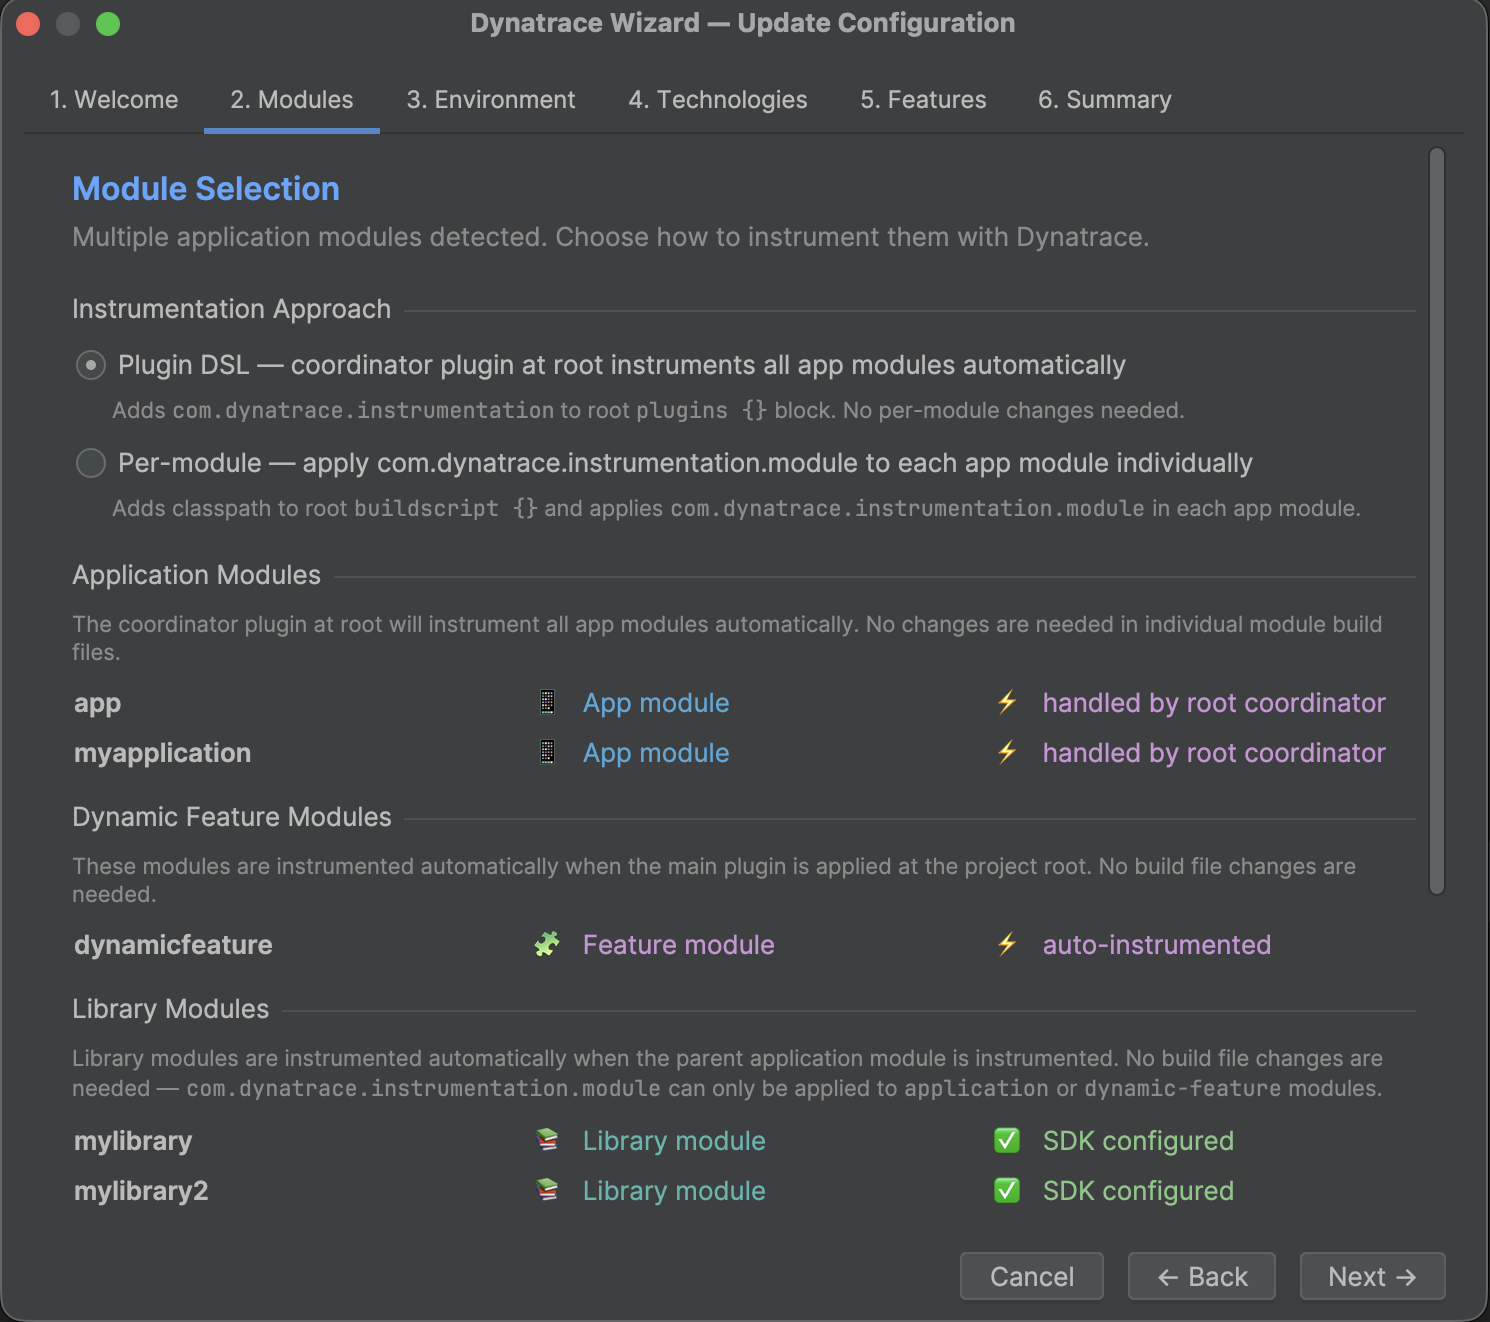
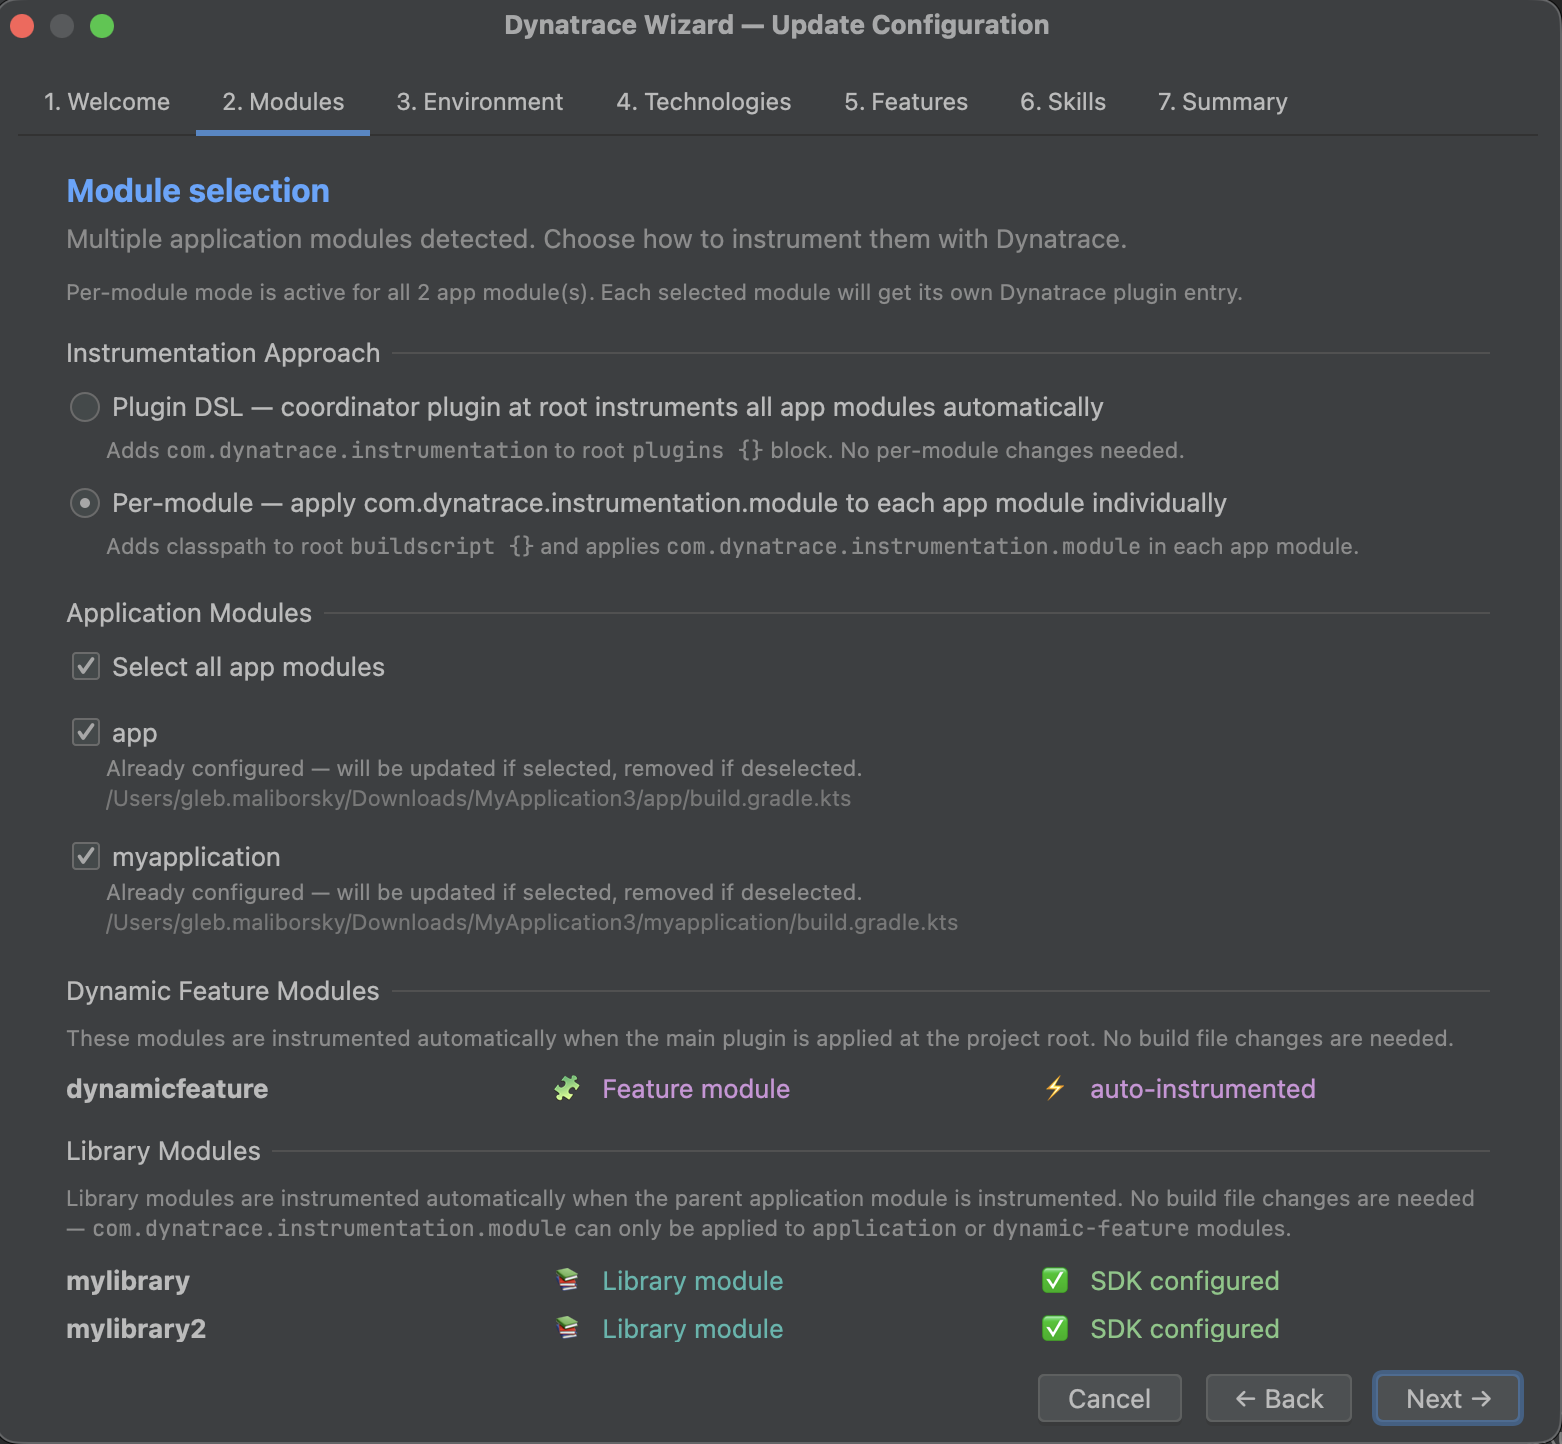
change documentation, improve formatting

diff --git a/src/main/kotlin/com/dynatrace/wizard/wizard/SupportedTechnologiesStep.kt b/src/main/kotlin/com/dynatrace/wizard/wizard/SupportedTechnologiesStep.kt
@@ -10,7 +10,9 @@ import com.intellij.util.ui.JBUI
 import com.intellij.util.ui.UIUtil
 import java.awt.BorderLayout
 import java.awt.Color
-import java.awt.GridLayout
+import java.awt.GridBagConstraints
+import java.awt.GridBagLayout
+import java.awt.Insets
 import javax.swing.BorderFactory
 import javax.swing.JComponent
 import javax.swing.JPanel
@@ -98,9 +100,7 @@ class SupportedTechnologiesStep {
             minVersion = "1.8.0",
             maxVersion = "2.3.99",
             note = "Required for Coroutines and Compose instrumentation",
-            noteWhenInRange = "Kotlin versions in this range should work without issues. " +
-                "Dynatrace typically trails Kotlin by 1–2 minor versions, " +
-                "so expect no problems if you stay in the 1.8–2.3 range."
+            noteWhenInRange = "Tested up to 2.3 — newer versions will probably work, but check Dynatrace release notes before upgrading."
         ),
         TechItem(
             name = "Jetpack Compose",
@@ -370,11 +370,13 @@ class SupportedTechnologiesStep {
         )
         builder.addComponent(
             JBLabel(
-                "<html>Versions detected in your project vs. the Dynatrace-supported range.<br>" +
-                "<b style='color:green'>Green</b> = compatible · " +
-                "<b style='color:#C76B00'>Amber</b> = likely compatible, probably no issues · " +
-                "<b style='color:red'>Red</b> = unsupported version · " +
-                "Grey = not detected in project.</html>"
+                "<html>" +
+                "Versions detected in your project vs. the Dynatrace-supported range.<br>" +
+                "<b style='color:green'>Green</b> = compatible &nbsp;·&nbsp; " +
+                "<b style='color:#C76B00'>Amber</b> = likely compatible &nbsp;·&nbsp; " +
+                "<b style='color:red'>Red</b> = unsupported version &nbsp;·&nbsp; " +
+                "Grey = not in project" +
+                "</html>"
             ).apply {
                 foreground = UIUtil.getContextHelpForeground()
                 border     = JBUI.Borders.emptyBottom(8)
@@ -417,7 +419,7 @@ class SupportedTechnologiesStep {
             ))
             builder.addVerticalGap(4)
             builder.addComponent(DocumentationLinks.createLinkLabel(
-                "Build-specific limitations →", DocumentationLinks.BUILD_SPECIFIC_LIMITATIONS))
+                "Build-specific limitations", DocumentationLinks.BUILD_SPECIFIC_LIMITATIONS))
             builder.addComponent(DocumentationLinks.createLinkLabel(
                 "Compatibility with other monitoring tools", DocumentationLinks.COMPATIBILITY_MONITORING_TOOLS))
         }
@@ -438,16 +440,50 @@ class SupportedTechnologiesStep {
     // ── Grid builder ──────────────────────────────────────────────────────────
 
     private fun techGrid(items: List<TechItem>, content: String): JComponent {
-        val grid = JPanel(GridLayout(0, 4, JBUI.scale(14), JBUI.scale(4)))
-        grid.isOpaque = false
-        grid.border   = JBUI.Borders.emptyLeft(4)
+        val panel = JPanel(GridBagLayout())
+        panel.isOpaque = false
+        panel.border   = JBUI.Borders.emptyLeft(4)
 
-        listOf("Technology", "In Your Project", "Supported", "Status").forEach { h ->
-            grid.add(JBLabel(h).apply {
-                font       = JBUI.Fonts.label().asBold()
-                foreground = UIUtil.getContextHelpForeground()
+        val hGap = JBUI.scale(14)   // horizontal gap between columns
+        val vPad = JBUI.scale(2)    // top inset inside each data cell
+        val rowGap = JBUI.scale(3)  // extra gap before each data row
+
+        var nextRow = 0
+
+        // Adds one 4-column data row to the GridBagLayout panel.
+        fun dataRow(
+            c0: JComponent, c1: JComponent, c2: JComponent, c3: JComponent,
+            topInset: Int = rowGap
+        ) {
+            val r = nextRow++
+            fun gbc(col: Int, wx: Double, rightInset: Int) = GridBagConstraints().apply {
+                gridx   = col; gridy = r
+                weightx = wx;  fill  = GridBagConstraints.HORIZONTAL
+                insets  = Insets(topInset, 0, 0, rightInset)
+                ipady   = vPad
+            }
+            panel.add(c0, gbc(0, 0.38, hGap))
+            panel.add(c1, gbc(1, 0.20, hGap))
+            panel.add(c2, gbc(2, 0.20, hGap))
+            panel.add(c3, gbc(3, 0.22, 0))
+        }
+
+        // Adds a full-width hint/note row (spans all 4 columns).
+        fun hintRow(label: JComponent) {
+            panel.add(label, GridBagConstraints().apply {
+                gridx     = 0;   gridy     = nextRow++
+                gridwidth = 4;   weightx   = 1.0
+                fill      = GridBagConstraints.HORIZONTAL
+                insets    = Insets(0, JBUI.scale(22), vPad, 0)
             })
         }
+
+        // Header row (no top inset)
+        fun hdr(text: String) = JBLabel(text).apply {
+            font       = JBUI.Fonts.label().asBold()
+            foreground = UIUtil.getContextHelpForeground()
+        }
+        dataRow(hdr("Technology"), hdr("Detected"), hdr("Supported"), hdr("Status"), topInset = 0)
 
         items.forEach { item ->
             val result = detectItem(item, content)
@@ -467,7 +503,7 @@ class SupportedTechnologiesStep {
                     "✅", "Compatible (BOM)", WizardColors.success, result.detectedVersion, true
                 )
                 result.inRange && item.noteWhenInRange.isNotBlank() -> Row(
-                    "⚠", "Likely compatible", WizardColors.warning, result.detectedVersion, true
+                    "⚠", "Likely compatible", WizardColors.warning, result.detectedVersion, true
                 )
                 result.inRange -> Row(
                     "✅", "Compatible", WizardColors.success, result.detectedVersion, true
@@ -477,50 +513,53 @@ class SupportedTechnologiesStep {
                 )
             }
 
-            grid.add(JBLabel("$icon  ${item.name}").apply {
-                font = if (isBold) JBUI.Fonts.label().asBold() else JBUI.Fonts.label()
-            })
-            grid.add(JBLabel(detectedText).apply {
-                font = if (isBold) JBUI.Fonts.label().asBold() else JBUI.Fonts.label()
-                foreground = when {
-                    item.type == SupportType.BUILT_IN && result.detectedVersion != null -> UIUtil.getLabelForeground()
-                    result.detectedVersion == null -> UIUtil.getContextHelpForeground()
-                    result.detectedVersion == "BOM" || result.detectedVersion.startsWith("BOM ") -> WizardColors.success
-                    result.inRange && item.noteWhenInRange.isNotBlank() -> WizardColors.warning
-                    result.inRange -> WizardColors.success
-                    else           -> WizardColors.error
+            dataRow(
+                JBLabel("$icon  ${item.name}").apply {
+                    font = if (isBold) JBUI.Fonts.label().asBold() else JBUI.Fonts.label()
+                },
+                JBLabel(detectedText).apply {
+                    font = if (isBold) JBUI.Fonts.label().asBold() else JBUI.Fonts.label()
+                    foreground = when {
+                        item.type == SupportType.BUILT_IN && result.detectedVersion != null -> UIUtil.getLabelForeground()
+                        result.detectedVersion == null -> UIUtil.getContextHelpForeground()
+                        result.detectedVersion == "BOM" || result.detectedVersion.startsWith("BOM ") -> WizardColors.success
+                        result.inRange && item.noteWhenInRange.isNotBlank() -> WizardColors.warning
+                        result.inRange -> WizardColors.success
+                        else           -> WizardColors.error
+                    }
+                },
+                JBLabel(item.versionLabel).apply {
+                    foreground = UIUtil.getContextHelpForeground()
+                },
+                JBLabel(statusText).apply {
+                    foreground = statusColor
                 }
-            })
-            grid.add(JBLabel(item.versionLabel).apply {
-                foreground = UIUtil.getContextHelpForeground()
-            })
-            grid.add(JBLabel(statusText).apply {
-                foreground = statusColor
-            })
+            )
 
-            // Hint row for "likely compatible" (in-range but soft upper bound)
+            // Inline hint for "likely compatible" (amber soft-bound note)
             if (result.inRange && item.noteWhenInRange.isNotBlank() && result.detectedVersion != null) {
-                grid.add(JBLabel("<html><i>${item.noteWhenInRange}</i></html>").apply {
+                hintRow(JBLabel("<html><i>${item.noteWhenInRange}</i></html>").apply {
                     font       = JBUI.Fonts.smallFont()
                     foreground = WizardColors.warning
-                    border     = JBUI.Borders.empty(0, JBUI.scale(24), 2, 0)
                 })
-                repeat(3) { grid.add(JPanel().apply { isOpaque = false }) }
             }
 
-            // Hint row: label in col 0, 3 blank fillers for cols 1–3
+            // Inline hint for out-of-range (error note)
             if (!result.inRange && result.detectedVersion != null && item.type == SupportType.AUTO) {
-                grid.add(JBLabel(
-                    "<html><i>${item.note.ifBlank { "Check Dynatrace release notes for this version." }}</i></html>"
-                ).apply {
+                hintRow(JBLabel("<html><i>${item.note.ifBlank { "Check Dynatrace release notes for this version." }}</i></html>").apply {
                     font       = JBUI.Fonts.smallFont()
                     foreground = WizardColors.error
-                    border     = JBUI.Borders.empty(0, JBUI.scale(24), 2, 0)
                 })
-                repeat(3) { grid.add(JPanel().apply { isOpaque = false }) }
             }
         }
-        return grid
+
+        // Vertical filler — pushes all rows to the top so they stay compact
+        panel.add(JPanel().apply { isOpaque = false }, GridBagConstraints().apply {
+            gridx = 0; gridy = nextRow; gridwidth = 4; weighty = 1.0
+            fill  = GridBagConstraints.VERTICAL
+        })
+
+        return panel
     }
 
     // ── Notice panel ──────────────────────────────────────────────────────────

diff --git a/src/main/kotlin/com/dynatrace/wizard/wizard/SkillsStep.kt b/src/main/kotlin/com/dynatrace/wizard/wizard/SkillsStep.kt
@@ -191,32 +191,39 @@ class SkillsStep(private val project: Project? = null) {
             return
         }
 
+        val client = getSkillClient()
+        val scope  = getSkillInstallScope()
         val config = SkillsExportConfig(
-            skillClient       = getSkillClient(),
-            skillInstallScope = getSkillInstallScope(),
+            skillClient       = client,
+            skillInstallScope = scope,
             skillFilePath     = skillFilePathField.text.trim()
         )
         val result = SkillsExportService(project).detectExistingSkills(info, config)
+
+        // One-line context shown in every state: "Claude Code · Project-level · path/"
+        val context = "<span style='color:gray'>${client.label} &middot; ${scope.label}" +
+                      " &middot; <code>${result.directory}/</code></span>"
 
         when {
             result.isFullInstall -> {
                 detectionStatusLabel.text =
                     "<html><b>${result.foundFiles.size} / ${result.totalFiles} files already installed</b>" +
-                    " &nbsp;<span style='color:gray'>${result.foundFiles.joinToString(" \u00b7 ")}</span></html>"
+                    " &nbsp; $context<br>" +
+                    "<span style='color:gray'>${result.foundFiles.joinToString(" \u00b7 ")}</span></html>"
                 detectionStatusLabel.foreground = WizardColors.success
             }
             result.isPartialInstall -> {
                 val missing = SkillsExportService.ALL_SKILL_FILES - result.foundFiles.toSet()
                 detectionStatusLabel.text =
-                    "<html><b>${result.foundFiles.size} / ${result.totalFiles} files found</b> (partial install)<br>" +
+                    "<html><b>${result.foundFiles.size} / ${result.totalFiles} files found</b>" +
+                    " (partial install) &nbsp; $context<br>" +
                     "<span style='color:gray'>Found: ${result.foundFiles.joinToString(", ")}</span><br>" +
                     "<span style='color:gray'>Missing: ${missing.joinToString(", ")}</span></html>"
                 detectionStatusLabel.foreground = WizardColors.warning
             }
             else -> {
                 detectionStatusLabel.text =
-                    "<html><span style='color:gray'>No existing skill files found" +
-                    " at ${result.directory}/</span></html>"
+                    "<html><span style='color:gray'>No existing skill files found &nbsp; $context</span></html>"
                 detectionStatusLabel.foreground = UIUtil.getContextHelpForeground()
             }
         }

diff --git a/src/main/kotlin/com/dynatrace/wizard/wizard/ModuleSelectionStep.kt b/src/main/kotlin/com/dynatrace/wizard/wizard/ModuleSelectionStep.kt
@@ -247,10 +247,13 @@ class ModuleSelectionStep {
                 }
             )
 
-            // Always build checkboxes — regardless of which radio is selected initially —
-            // so switching approach at runtime always has a populated checkbox list.
+            // Pre-check modules based on their current state:
+            //  - Re-run (any module already configured): only check the already-instrumented ones.
+            //  - Fresh setup (nothing configured yet): check all as a convenience default.
+            val anyAlreadyConfigured = info.appModules.any { it.hasDynatrace }
             info.appModules.forEach { m ->
-                val checkBox = JBCheckBox(m.name, true)
+                val initiallyChecked = if (anyAlreadyConfigured) m.hasDynatrace else true
+                val checkBox = JBCheckBox(m.name, initiallyChecked)
                 checkBox.addActionListener { updateAppSelectionSummary(info.appModules) }
                 appCheckboxes += m to checkBox
             }
@@ -476,7 +479,8 @@ class ModuleSelectionStep {
     private fun buildPerModuleCheckboxesPanel(info: ProjectDetectionService.ProjectInfo): JComponent {
         val b = FormBuilder.createFormBuilder()
         if (info.appModules.size > 1) {
-            val selectAllCb = JBCheckBox("Select all app modules", true)
+            val allChecked = appCheckboxes.all { it.second.isSelected }
+            val selectAllCb = JBCheckBox("Select all app modules", allChecked)
             selectAllCb.addActionListener {
                 appCheckboxes.forEach { (_, cb) -> cb.isSelected = selectAllCb.isSelected }
                 updateAppSelectionSummary(info.appModules)

diff --git a/src/main/kotlin/com/dynatrace/wizard/util/DocumentationLinks.kt b/src/main/kotlin/com/dynatrace/wizard/util/DocumentationLinks.kt
@@ -60,9 +60,8 @@ object DocumentationLinks {
     const val STANDALONE_INSTRUMENTATION =
         "https://docs.dynatrace.com/docs/observe/digital-experience/mobile-applications/instrument-android-app/manually-instrument-application-oneagent-sdk-android"
 
-    // Support & limitations
     // Debug logging
-    const val DEBUG_LOGGING           = "$BASE/enable-debug-logging"
+    const val DEBUG_LOGGING = "https://docs.dynatrace.com/docs/observe/digital-experience/mobile-applications/instrument-android-app/debug-logging-oneagent"
 
     const val SUPPORT_LIMITATIONS     = "https://docs.dynatrace.com/docs/observe/digital-experience/new-rum-experience/mobile-frontends/android/id-02-support-and-limitations"
 

diff --git a/README.md b/README.md
@@ -19,10 +19,8 @@ configuration for Android projects through a guided wizard dialog.
 ![Features tab](docs/screenshots/wizard/05-features.png)
 
 ![Skills tab](docs/screenshots/wizard/06-skills.png)
-<!-- TODO: replace 06-skills.png with an actual screenshot of the Skills / AI tab -->
 
 ![Summary tab](docs/screenshots/wizard/07-summary.png)
-<!-- TODO: rename 06-summary.png → 07-summary.png to match the new tab order -->
 
 ## Features
 
